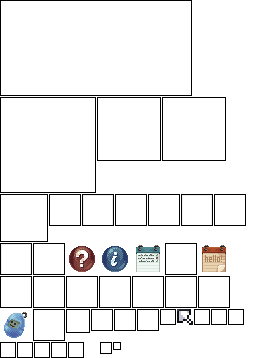
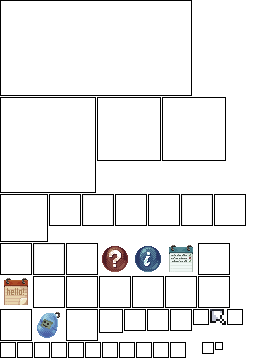
show resize cursors on window edges and corners, with placeholder art

diff --git a/js/main.js b/js/main.js
@@ -1,9 +1,9 @@
 import { makeDefaultData, cloneFiles, localDay, caretPosition, mineCustomField, eventOn, nextOccurrence, clampNumber, normalizeData, normalizeTags, extractNoteHeadings, noteStats, appendNoteRevision, restoreNoteRevision, validateLogEntry, filterLogs, restoreTimerState, appendCompletedSession, logsToCsv, calculateExpression, createMinefield, neighbors, revealArea, floodFill, linePoints, shapePoints, monthGrid, cursorSurfaceMatrix, smudgePixels } from "./data-core.mjs?v=49fd07edf5";
 import { rockLines, rareRockLine } from "./rock-lines.mjs?v=b747b167bd";
-import { atlasMap } from "./atlas-map.mjs?v=fe06793173";
+import { atlasMap } from "./atlas-map.mjs?v=d1912f48d1";
 const sprites = await loadSprites();
 function sprite(name) { return sprites[name] || ""; }
-async function loadSprites() { const urls = {}; try { const sheet = new Image(); await new Promise((resolve, reject) => { sheet.onload = resolve; sheet.onerror = reject; sheet.src = "icons/atlas.png?v=772387d617"; }); const canvas = document.createElement("canvas"); const context = canvas.getContext("2d"); for (const [name, [x, y, width, height]] of Object.entries(atlasMap)) { canvas.width = width; canvas.height = height; context.drawImage(sheet, x, y, width, height, 0, 0, width, height); urls[name] = canvas.toDataURL(); document.documentElement.style.setProperty("--icon-" + name, 'url("' + urls[name] + '")'); } } catch {} return urls; }
+async function loadSprites() { const urls = {}; try { const sheet = new Image(); await new Promise((resolve, reject) => { sheet.onload = resolve; sheet.onerror = reject; sheet.src = "icons/atlas.png?v=c90e3db2e5"; }); const canvas = document.createElement("canvas"); const context = canvas.getContext("2d"); for (const [name, [x, y, width, height]] of Object.entries(atlasMap)) { canvas.width = width; canvas.height = height; context.drawImage(sheet, x, y, width, height, 0, 0, width, height); urls[name] = canvas.toDataURL(); document.documentElement.style.setProperty("--icon-" + name, 'url("' + urls[name] + '")'); } } catch {} return urls; }
 document.querySelectorAll("img[data-icon]").forEach((image) => { image.src = sprite(image.dataset.icon); });
 
 const KEY = "lumen-desk-v1";
@@ -2260,7 +2260,7 @@ function resizeGrip(node) {
     const minimumHeight = parseInt(style.minHeight, 10) || 150;
     let box = { ...start };
     let frame = 0;
-    desk.classList.add("moving");
+    desk.classList.add("moving"); document.body.dataset.resizing = edge;
     const apply = () => {
       frame = 0;
       node.style.cssText += "left:" + box.left + "px;top:" + box.top + "px;width:" + box.width + "px;height:" + box.height + "px";
@@ -2285,7 +2285,7 @@ function resizeGrip(node) {
       grip.removeEventListener("pointermove", move);
       grip.removeEventListener("pointerup", stop);
       grip.removeEventListener("pointercancel", stop);
-      desk.classList.remove("moving");
+      desk.classList.remove("moving"); delete document.body.dataset.resizing;
       rememberWindows();
     };
     grip.addEventListener("pointermove", move);
@@ -2579,7 +2579,7 @@ function updateSceneHover() {
   hoverFrame = 0;
   const [x, y] = toScene(hoverX, hoverY);
   const hit = document.elementFromPoint(x, y); const next = hit?.closest("button") || null;
-  writeAttribute(screenCursor, "data-shape", hit?.closest("button:not(:disabled), a[href], select:not(:disabled), label") ? "pointing" : "pointer");
+  const grip = document.body.dataset.resizing ?? hit?.closest("[data-grip]")?.dataset.grip; writeAttribute(screenCursor, "data-shape", grip !== undefined ? "resize-" + ({ n: "ns", s: "ns", e: "ew", w: "ew", ne: "nesw", sw: "nesw" }[grip] || "nwse") : hit?.closest("button:not(:disabled), a[href], select:not(:disabled), label") ? "pointing" : "pointer");
   if (next === sceneHover) return;
   sceneHover?.classList.remove("scene-hover");
   next?.classList.add("scene-hover");

diff --git a/sw.js b/sw.js
@@ -1,5 +1,5 @@
-const CACHE_NAME = "lumen-app-a71d0d93f7";
-const APP_SHELL = ["./", "./index.html", "./css/lumen-vintage.css?v=fa2d684548", "./js/main.js?v=ce1d188d5c", "./js/atlas-map.mjs?v=fe06793173", "./icons/atlas.png?v=772387d617", "./icons/favicon.png?v=6da4b3c16f", "./icons/app-icon.png?v=9e98d8ad02", "./icons/app-icon-512.png?v=0b82f5e871", "./js/data-core.mjs?v=49fd07edf5", "./js/rock-lines.mjs?v=b747b167bd", "./manifest.webmanifest?v=fad35e93d7", "./sounds/open.mp3", "./sounds/close.mp3", "./sounds/minimize.mp3", "./sounds/restore.mp3", "./sounds/thud.mp3", "./sounds/win.mp3", "./sounds/boom.mp3", "./sounds/degauss.mp3", "./sounds/timer.mp3", "./sounds/flip.mp3", "./icons/wallpaper.png?v=5e0b52de42", "./icons/wallpaper-midnight.png?v=d5a967ff8e", "./icons/wallpaper-aurora.png?v=d5a967ff8e", "./icons/wallpaper-graphite.png?v=d5a967ff8e"];
+const CACHE_NAME = "lumen-app-20c3a5f765";
+const APP_SHELL = ["./", "./index.html", "./css/lumen-vintage.css?v=629c952d57", "./js/main.js?v=7c76ed3c32", "./js/atlas-map.mjs?v=d1912f48d1", "./icons/atlas.png?v=c90e3db2e5", "./icons/favicon.png?v=6da4b3c16f", "./icons/app-icon.png?v=9e98d8ad02", "./icons/app-icon-512.png?v=0b82f5e871", "./js/data-core.mjs?v=49fd07edf5", "./js/rock-lines.mjs?v=b747b167bd", "./manifest.webmanifest?v=fad35e93d7", "./sounds/open.mp3", "./sounds/close.mp3", "./sounds/minimize.mp3", "./sounds/restore.mp3", "./sounds/thud.mp3", "./sounds/win.mp3", "./sounds/boom.mp3", "./sounds/degauss.mp3", "./sounds/timer.mp3", "./sounds/flip.mp3", "./icons/wallpaper.png?v=5e0b52de42", "./icons/wallpaper-midnight.png?v=d5a967ff8e", "./icons/wallpaper-aurora.png?v=d5a967ff8e", "./icons/wallpaper-graphite.png?v=d5a967ff8e"];
 
 self.addEventListener("install", (event) => {
   event.waitUntil(caches.open(CACHE_NAME).then(async (cache) => { for (const url of APP_SHELL) await cache.add(url); }));

diff --git a/index.html b/index.html
@@ -16,11 +16,11 @@
     <title>LUMEN - Builder Desk</title>
 
     <link rel="preload" href="icons/wallpaper.png?v=5e0b52de42" as="image" fetchpriority="high">
-    <link rel="stylesheet" href="css/lumen-vintage.css?v=fa2d684548" />
+    <link rel="stylesheet" href="css/lumen-vintage.css?v=629c952d57" />
     <link rel="modulepreload" href="js/data-core.mjs?v=49fd07edf5">
     <link rel="modulepreload" href="js/rock-lines.mjs?v=b747b167bd">
-    <link rel="modulepreload" href="js/atlas-map.mjs?v=fe06793173">
-    <link rel="preload" href="icons/atlas.png?v=772387d617" as="image">
+    <link rel="modulepreload" href="js/atlas-map.mjs?v=d1912f48d1">
+    <link rel="preload" href="icons/atlas.png?v=c90e3db2e5" as="image">
   </head>
   <body>
     <span class="screen-cursor" data-screen-cursor aria-hidden="true"></span>
@@ -73,6 +73,6 @@
     <div class="crt-roll" aria-hidden="true"></div>
     <div class="crt-flicker" aria-hidden="true"></div>
 
-    <script type="module" src="js/main.js?v=ce1d188d5c"></script>
+    <script type="module" src="js/main.js?v=7c76ed3c32"></script>
   </body>
 </html>

diff --git a/css/lumen-vintage.css b/css/lumen-vintage.css
@@ -1252,6 +1252,11 @@ select,
 .screen-cursor.hidden { display: none; }
 .screen-cursor { filter: var(--tone, none); }
 .screen-cursor[data-shape="pointing"] { background-image: var(--icon-cursor-pointing); }
+.screen-cursor[data-shape^="resize-"] { margin: -8px 0 0 -8px; }
+.screen-cursor[data-shape="resize-ew"] { background-image: var(--icon-cursor-resize-ew); }
+.screen-cursor[data-shape="resize-ns"] { background-image: var(--icon-cursor-resize-ns); }
+.screen-cursor[data-shape="resize-nwse"] { background-image: var(--icon-cursor-resize-nwse); }
+.screen-cursor[data-shape="resize-nesw"] { background-image: var(--icon-cursor-resize-nesw); }
 body.dragging .screen-cursor { background-image: var(--icon-cursor-dragging); }
 
 body::before,
